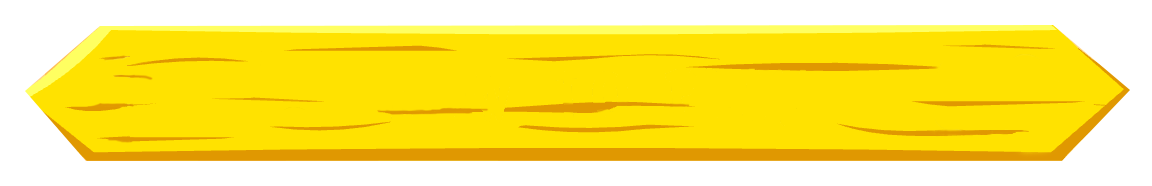
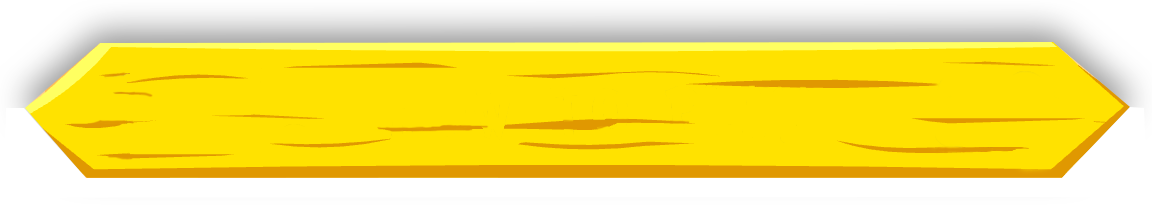
Feat: add background shadow

diff --git a/src/pages/OnlineGame/userInformationBox.tsx b/src/pages/OnlineGame/userInformationBox.tsx
@@ -6,32 +6,37 @@ const UserInformationBoxBody = styled.div`
 `;
 const UserInformationBoxMain = styled.div`
   display: flex;
+  flex-wrap: wrap;
   align-items: center;
-  width: 200px;
+  width: 150px;
   height: 60px;
   padding: 5px 0 5px 10px;
   border-radius: 15px;
   background-color: #fff;
-  opacity: 50%;
+  opacity: 70%;
+
+  &:hover {
+    opacity: 1;
+  }
 `;
 const UserInformationBoxImg = styled.div<{ photoURL: string }>`
-  width: 40px;
-  height: 40px;
-  margin-right: 10px;
+  width: 30px;
+  height: 30px;
+  margin-right: 6px;
   border: 0.5px solid #000;
   border-radius: 50%;
   background-image: url(${(p) => p.photoURL});
   background-size: cover;
 `;
 const UserInformationBoxTexts = styled.div`
-  width: 135px;
+  width: 95px;
 `;
 const UserInformationBoxName = styled.div`
-  font-size: 20px;
+  font-size: 15px;
   overflow: hidden;
 `;
 const UserInformationBoxEmail = styled.div`
-  font-size: 12px;
+  font-size: 9px;
   overflow: hidden;
 `;
 
@@ -55,8 +60,8 @@ function UserInformationBox({
         />
         <UserInformationBoxTexts>
           <UserInformationBoxName>{name || '訪客'}</UserInformationBoxName>
-          <UserInformationBoxEmail>{email || ''}</UserInformationBoxEmail>
         </UserInformationBoxTexts>
+        <UserInformationBoxEmail>{email || ''}</UserInformationBoxEmail>
       </UserInformationBoxMain>
     </UserInformationBoxBody>
   );

diff --git a/src/pages/Home/index.tsx b/src/pages/Home/index.tsx
@@ -34,7 +34,7 @@ const HomeMain = styled.div`
   padding: 15px 20px;
   border-radius: 15px;
   background-color: #ffffff;
-  box-shadow: -2px 2px 4px 0 rgb(0 0 0 / 30%);
+  box-shadow: 0 0 20px #00000090;
   z-index: -1;
 
   @media (max-width: 1125px) {
@@ -61,7 +61,7 @@ const HomeLogin = styled.div`
 `;
 const HomeLogoBox = styled.div`
   position: absolute;
-  top: -40px;
+  top: -47px;
   right: 0;
   left: 0;
   display: flex;
@@ -74,6 +74,7 @@ const HomeLogoBox = styled.div`
   background-size: cover;
 `;
 const HomeLogo = styled.div`
+  margin-top: 15px;
   font-size: 28px;
   font-weight: bold;
 `;

diff --git a/src/components/background/index.tsx b/src/components/background/index.tsx
@@ -9,6 +9,7 @@ const BackgroundImg = styled.div`
   width: 100vw;
   height: 100vh;
   background-image: url(${backgroundImg});
+  filter: blur(1px) brightness(0.7);
   opacity: 45%;
   z-index: -99;
 `;

diff --git a/src/pages/AIgame/index.tsx b/src/pages/AIgame/index.tsx
@@ -45,6 +45,7 @@ const GameBody = styled.div`
   width: 940px;
   height: 560px;
   margin: auto;
+  box-shadow: 0 0 20px #00000090;
   @media (max-width: 1125px) {
     display: none;
   }

diff --git a/src/pages/Game/index.tsx b/src/pages/Game/index.tsx
@@ -42,6 +42,7 @@ const GameBody = styled.div`
   width: 940px;
   height: 560px;
   margin: auto;
+  box-shadow: 0 0 20px #00000090;
 
   @media (max-width: 1125px) {
     display: none;

diff --git a/src/pages/OnlineGame/index.tsx b/src/pages/OnlineGame/index.tsx
@@ -47,6 +47,7 @@ const GameBody = styled.div`
   width: 940px;
   height: 560px;
   margin: auto;
+  box-shadow: 0 0 20px #00000090;
 
   @media (max-width: 1125px) {
     display: none;
